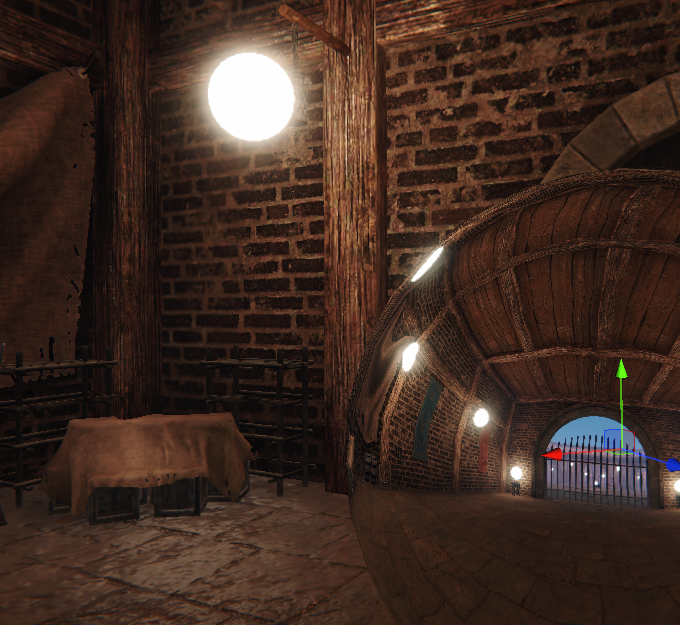
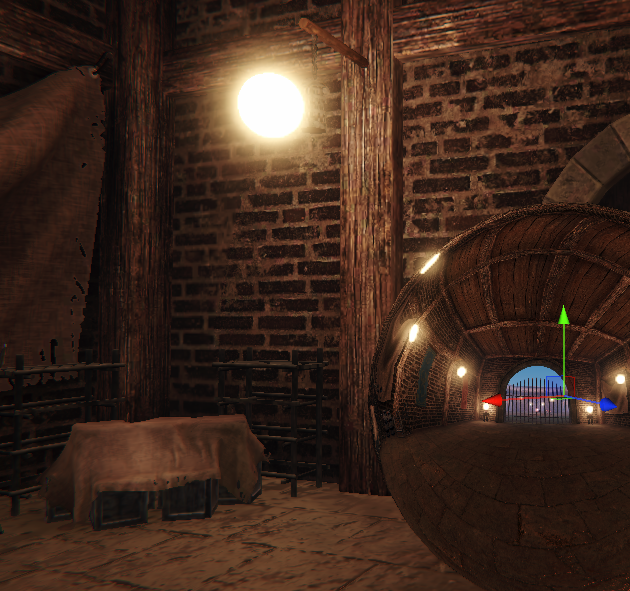
채도 추가

diff --git a/tool/ReflectionProbeSpecular/Editor/ReflectionProbeSpecular.cs b/tool/ReflectionProbeSpecular/Editor/ReflectionProbeSpecular.cs
@@ -8,6 +8,13 @@ public class ReflectionProbeSpecular : EditorWindow
     private Material emissiveMaterial;
     private float sphereScale = 0.5f;
     private float emissionIntensity = 1.0f;
+    private float saturation = 1.0f;
+
+    public class ColorData : MonoBehaviour
+    {
+        public Color originalBaseColor;
+        public Color originalEmissionColor;
+    }
 
     [MenuItem("Tools/Reflection Probe Specular")]
     public static void ShowWindow()
@@ -28,28 +35,7 @@ public class ReflectionProbeSpecular : EditorWindow
         EditorApplication.update -= UpdateSphereProperties;
     }
 
-    void UpdateSphereProperties()
-    {
-        if (tempSpheres != null)
-        {
-            foreach (GameObject sphere in tempSpheres)
-            {
-                if (sphere != null)
-                {
-                    sphere.transform.localScale = Vector3.one * sphereScale;
-                    Renderer renderer = sphere.GetComponent<Renderer>();
-                    if (renderer != null)
-                    {
-                        // Safely check for properties to prevent material instantiation
-                        if (renderer.sharedMaterial.HasProperty("_EmissionColor"))
-                        {
-                            renderer.sharedMaterial.SetColor("_EmissionColor", renderer.sharedMaterial.color * emissionIntensity);
-                        }
-                    }
-                }
-            }
-        }
-    }
+
 
 
     void OnGUI()
@@ -75,20 +61,29 @@ public class ReflectionProbeSpecular : EditorWindow
         GUILayout.Label("Sphere Control", EditorStyles.boldLabel);
 
         EditorGUI.BeginChangeCheck();
-        float newSphereScale = EditorGUILayout.Slider("Scale", sphereScale, 0.1f, 2.0f);
+        float newSphereScale = EditorGUILayout.Slider("Scale", sphereScale, 0.1f, 4.0f);
         float newEmissionIntensity = EditorGUILayout.Slider("Intensity", emissionIntensity, 0.0f, 10.0f);
+        float newSaturation = EditorGUILayout.Slider("Saturation", saturation, 0.0f, 2.0f);
         if (EditorGUI.EndChangeCheck())
         {
             sphereScale = newSphereScale;
             emissionIntensity = newEmissionIntensity;
+            saturation = newSaturation;
         }
 
 
     }
 
+    private Color AdjustSaturation(Color color, float saturationMultiplier)
+    {
+        Color.RGBToHSV(color, out float H, out float S, out float V);
+        S = Mathf.Clamp(S * saturationMultiplier, 0, 1);  // 채도를 조절하되 0과 1의 범위를 벗어나지 않도록
+        return Color.HSVToRGB(H, S, V, true);  // true는 HDR 색상 처리를 활성화
+    }
+
     private void CreateSpheres()
     {
-        RemoveSpheres(); // Ensure clean start
+        RemoveSpheres();
         GameObject parentObject = new GameObject("SpheresParent");
         Light[] pointLights = FindObjectsOfType<Light>();
         tempSpheres = new GameObject[pointLights.Length];
@@ -103,21 +98,53 @@ public class ReflectionProbeSpecular : EditorWindow
                 sphere.transform.position = light.transform.position;
                 sphere.transform.localScale = Vector3.one * sphereScale;
                 Renderer renderer = sphere.GetComponent<Renderer>();
-
                 Material sphereMaterial = new Material(Shader.Find("Universal Render Pipeline/Lit"));
-                sphereMaterial.SetColor("_BaseColor", light.color);
-                sphereMaterial.SetColor("_EmissionColor", light.color * emissionIntensity);
+
+                Color baseColor = light.color; // 원래 색상
+                Color emissionColor = light.color * emissionIntensity; // 원래 발광 색상
+
+                sphereMaterial.SetColor("_BaseColor", baseColor);
+                sphereMaterial.SetColor("_EmissionColor", emissionColor);
                 sphereMaterial.EnableKeyword("_EMISSION");
                 sphereMaterial.globalIlluminationFlags = MaterialGlobalIlluminationFlags.None;
 
-
                 renderer.material = sphereMaterial;
 
-                // 재질의 변경 사항을 에디터에 반영
-                EditorUtility.SetDirty(renderer);
-                EditorUtility.SetDirty(sphereMaterial);
+                ColorData colorData = sphere.AddComponent<ColorData>();
+                colorData.originalBaseColor = baseColor;
+                colorData.originalEmissionColor = emissionColor;
 
                 tempSpheres[index++] = sphere;
+            }
+        }
+    }
+
+    void UpdateSphereProperties()
+    {
+        if (tempSpheres != null)
+        {
+            foreach (GameObject sphere in tempSpheres)
+            {
+                if (sphere != null)
+                {
+                    sphere.transform.localScale = Vector3.one * sphereScale;  // 크기 조절 적용
+
+                    ColorData colorData = sphere.GetComponent<ColorData>();
+                    if (colorData != null)
+                    {
+                        Renderer renderer = sphere.GetComponent<Renderer>();
+                        if (renderer != null)
+                        {
+                            // 원래 색상을 기반으로 채도 조절 적용
+                            Color adjustedBaseColor = AdjustSaturation(colorData.originalBaseColor, saturation);
+                            Color adjustedEmissionColor = AdjustSaturation(colorData.originalEmissionColor * emissionIntensity, saturation);  // 인텐시티 조절 적용
+
+                            // 조정된 색상을 재적용
+                            renderer.sharedMaterial.SetColor("_BaseColor", adjustedBaseColor);
+                            renderer.sharedMaterial.SetColor("_EmissionColor", adjustedEmissionColor);
+                        }
+                    }
+                }
             }
         }
     }
